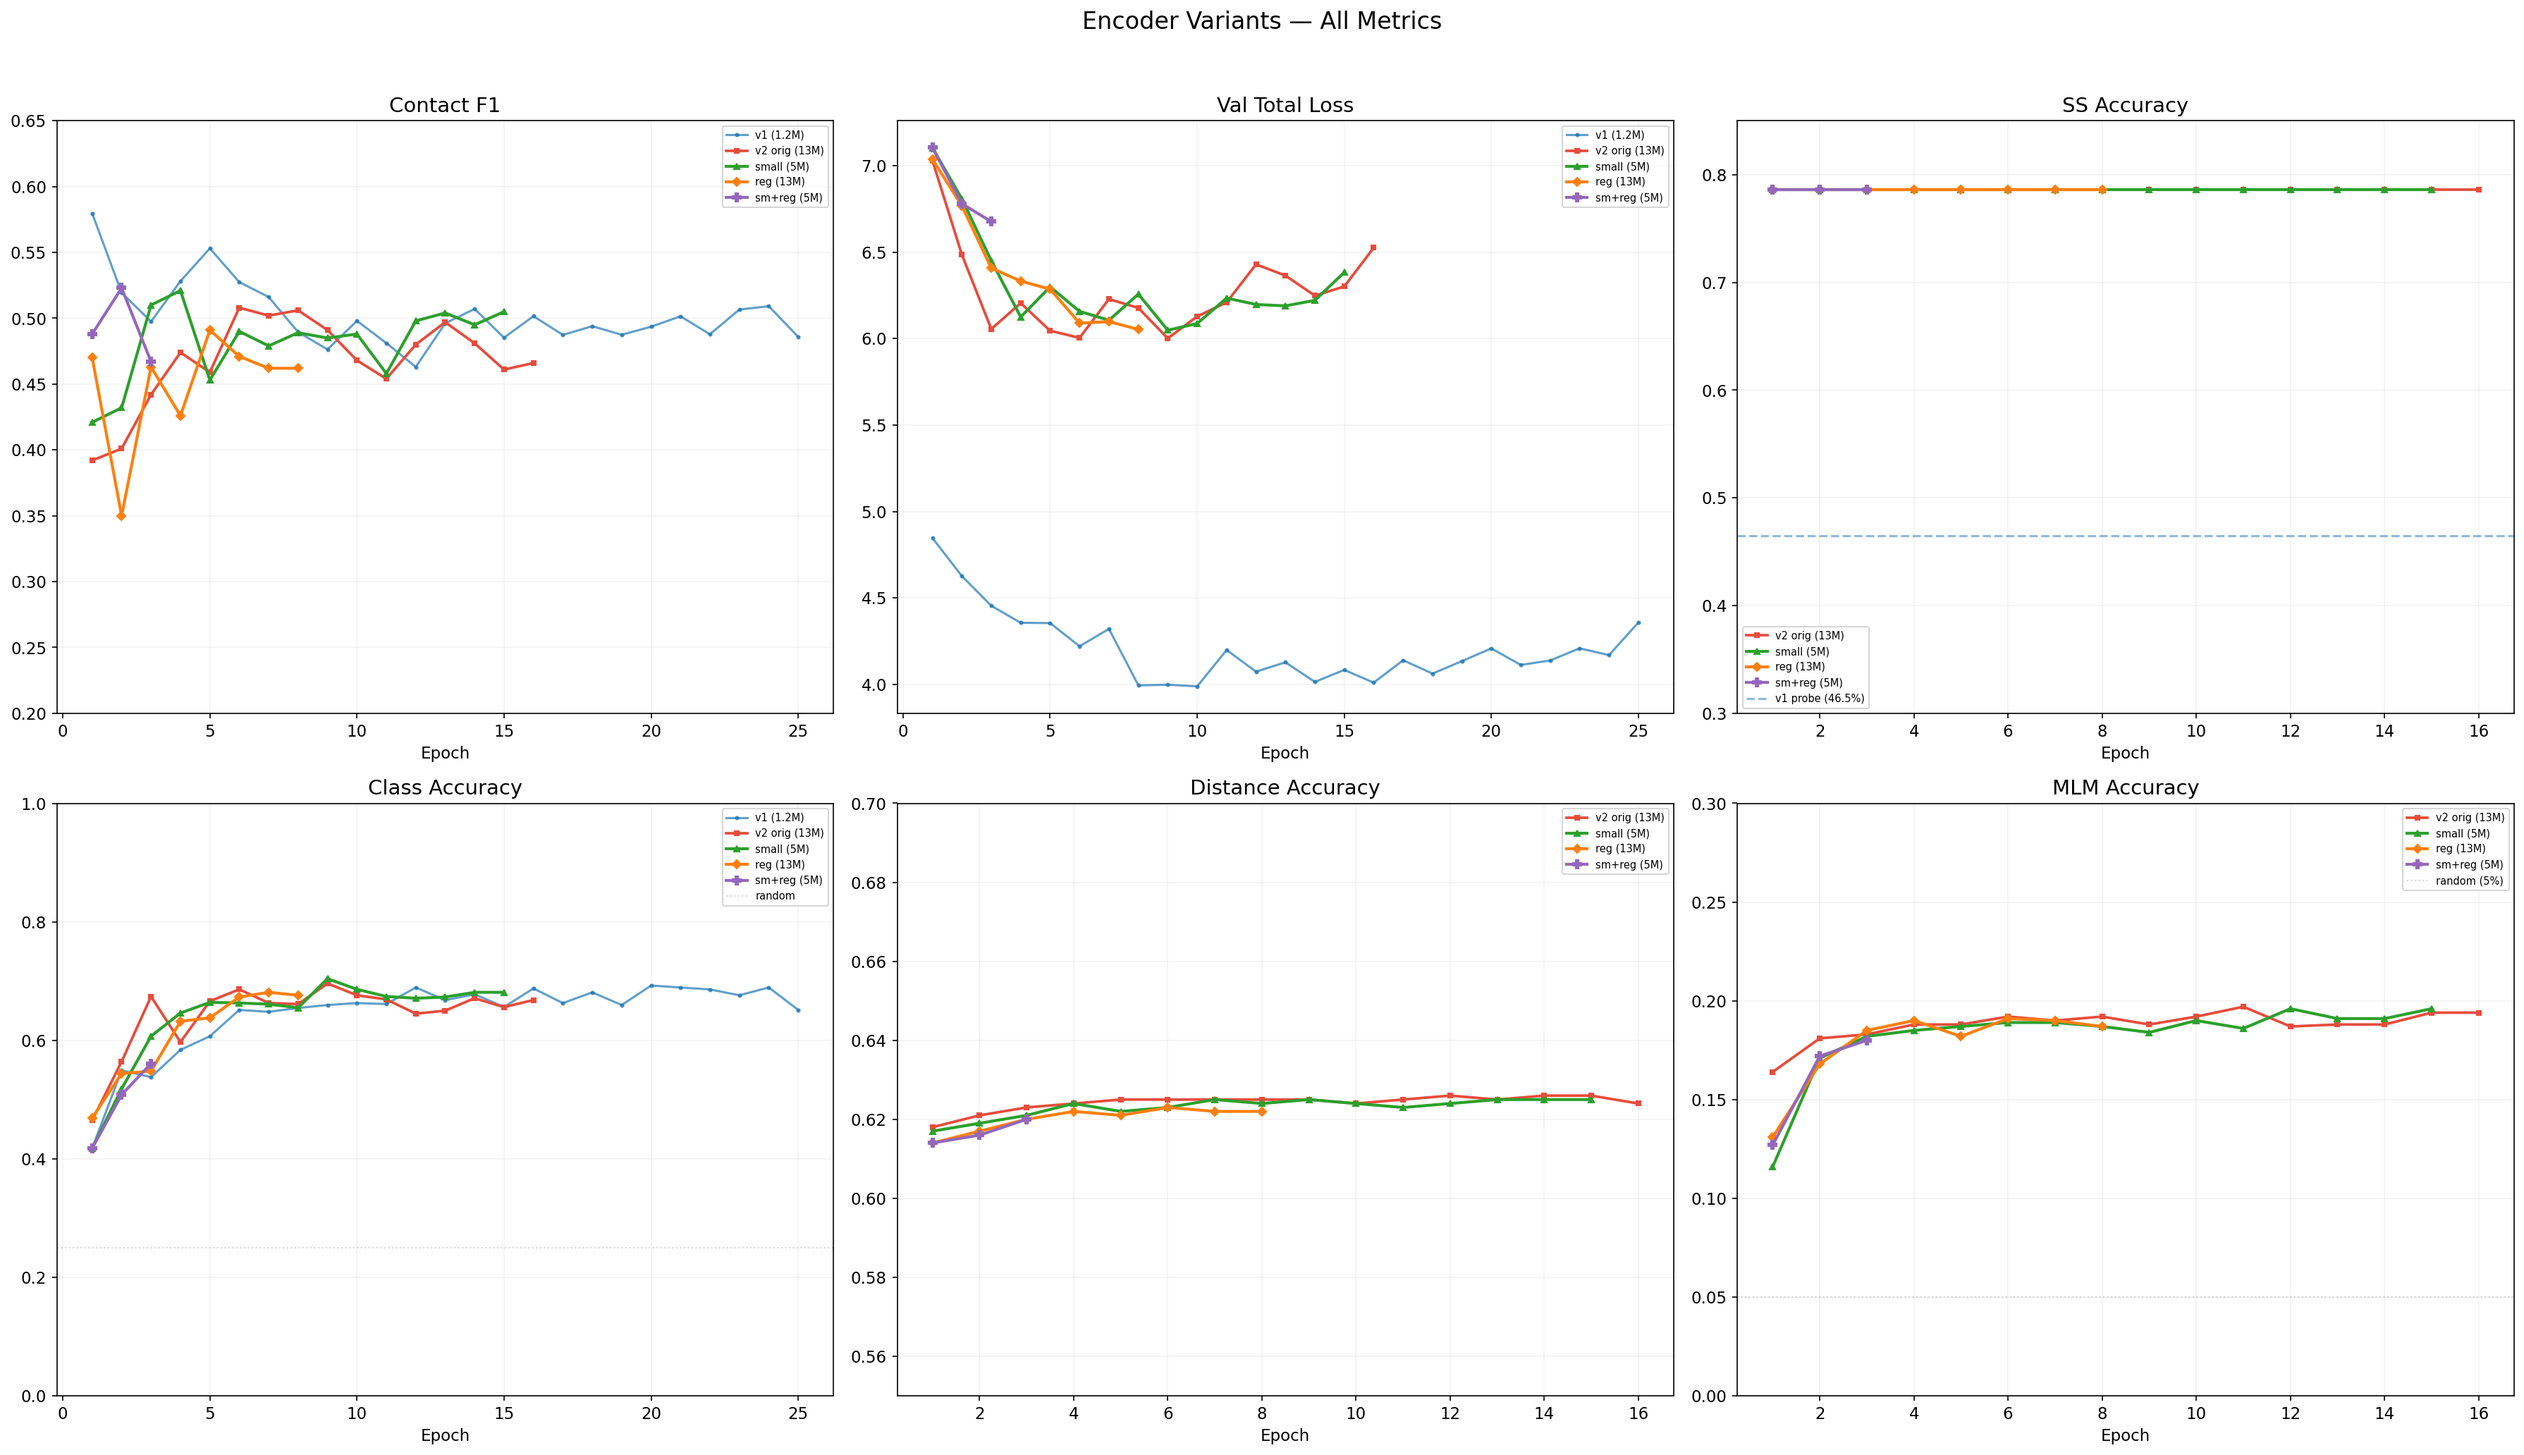
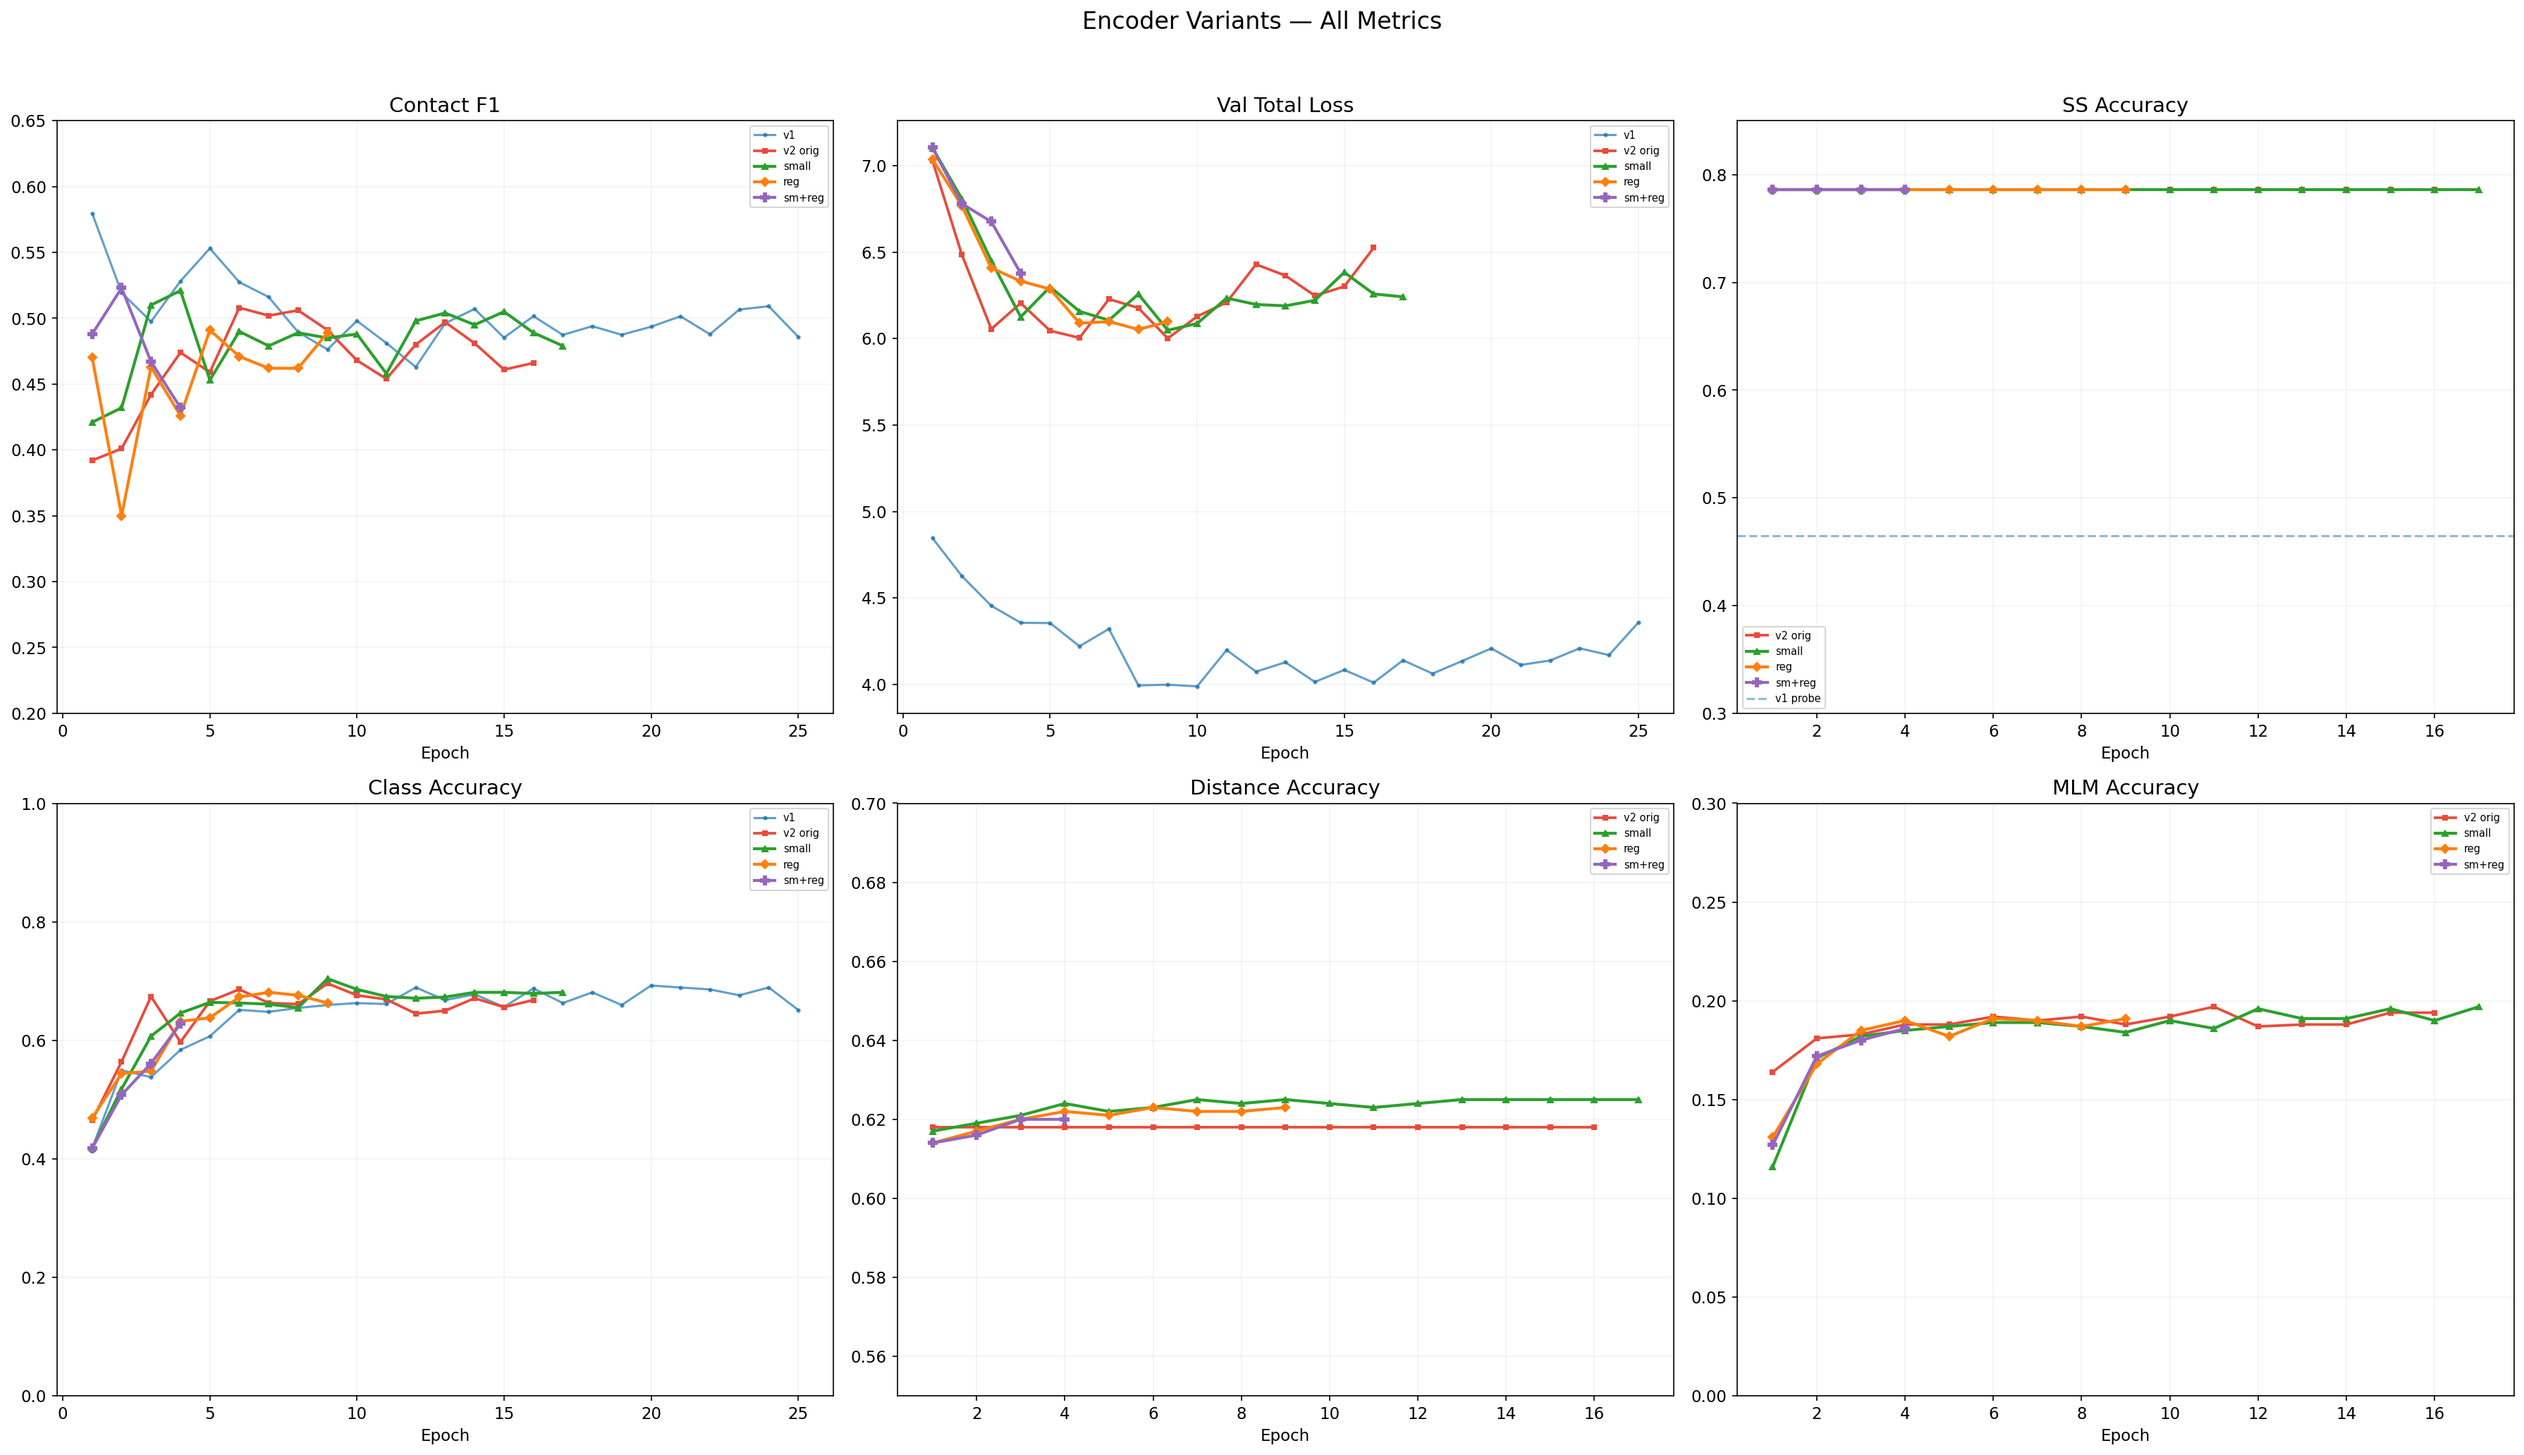
Update: small E17 (pat 8), reg E9 (still solid), small+reg E4
Reg val loss stable at 6.05-6.10, no overfit after 9 epochs.
Small plateauing (pat 8). Small+reg loss still dropping (6.38).

diff --git a/minifold.html b/minifold.html
@@ -194,7 +194,7 @@
       Full architecture history, training tables, loss functions, and analysis for the protein backbone diffusion model.
     </p>
     <p id="last-updated" style="color: var(--text-secondary); font-size: 13px; margin-bottom: 16px; font-style: italic;">
-      Last updated: Mar 15, 2026 at 4:40 PM PST
+      Last updated: Mar 15, 2026 at 4:50 PM PST
     </p>
 
     <div class="mf-tabs">
